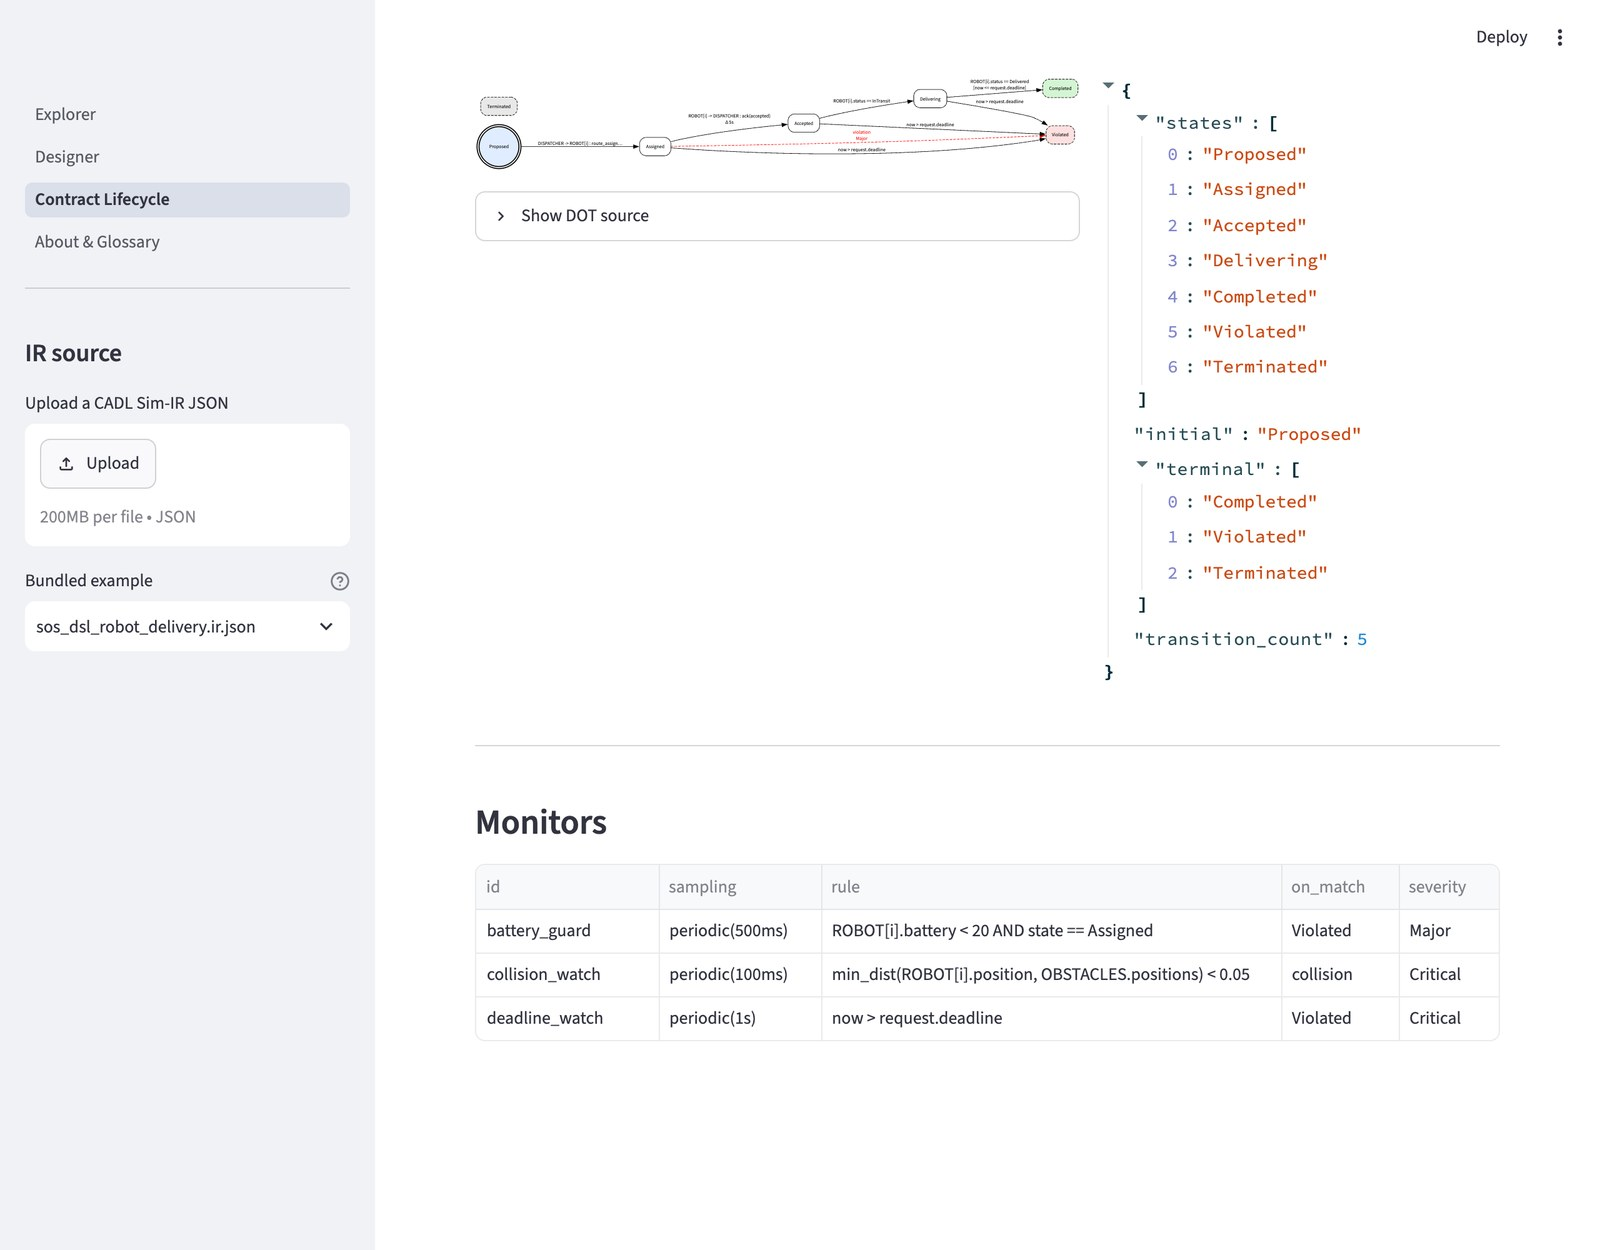
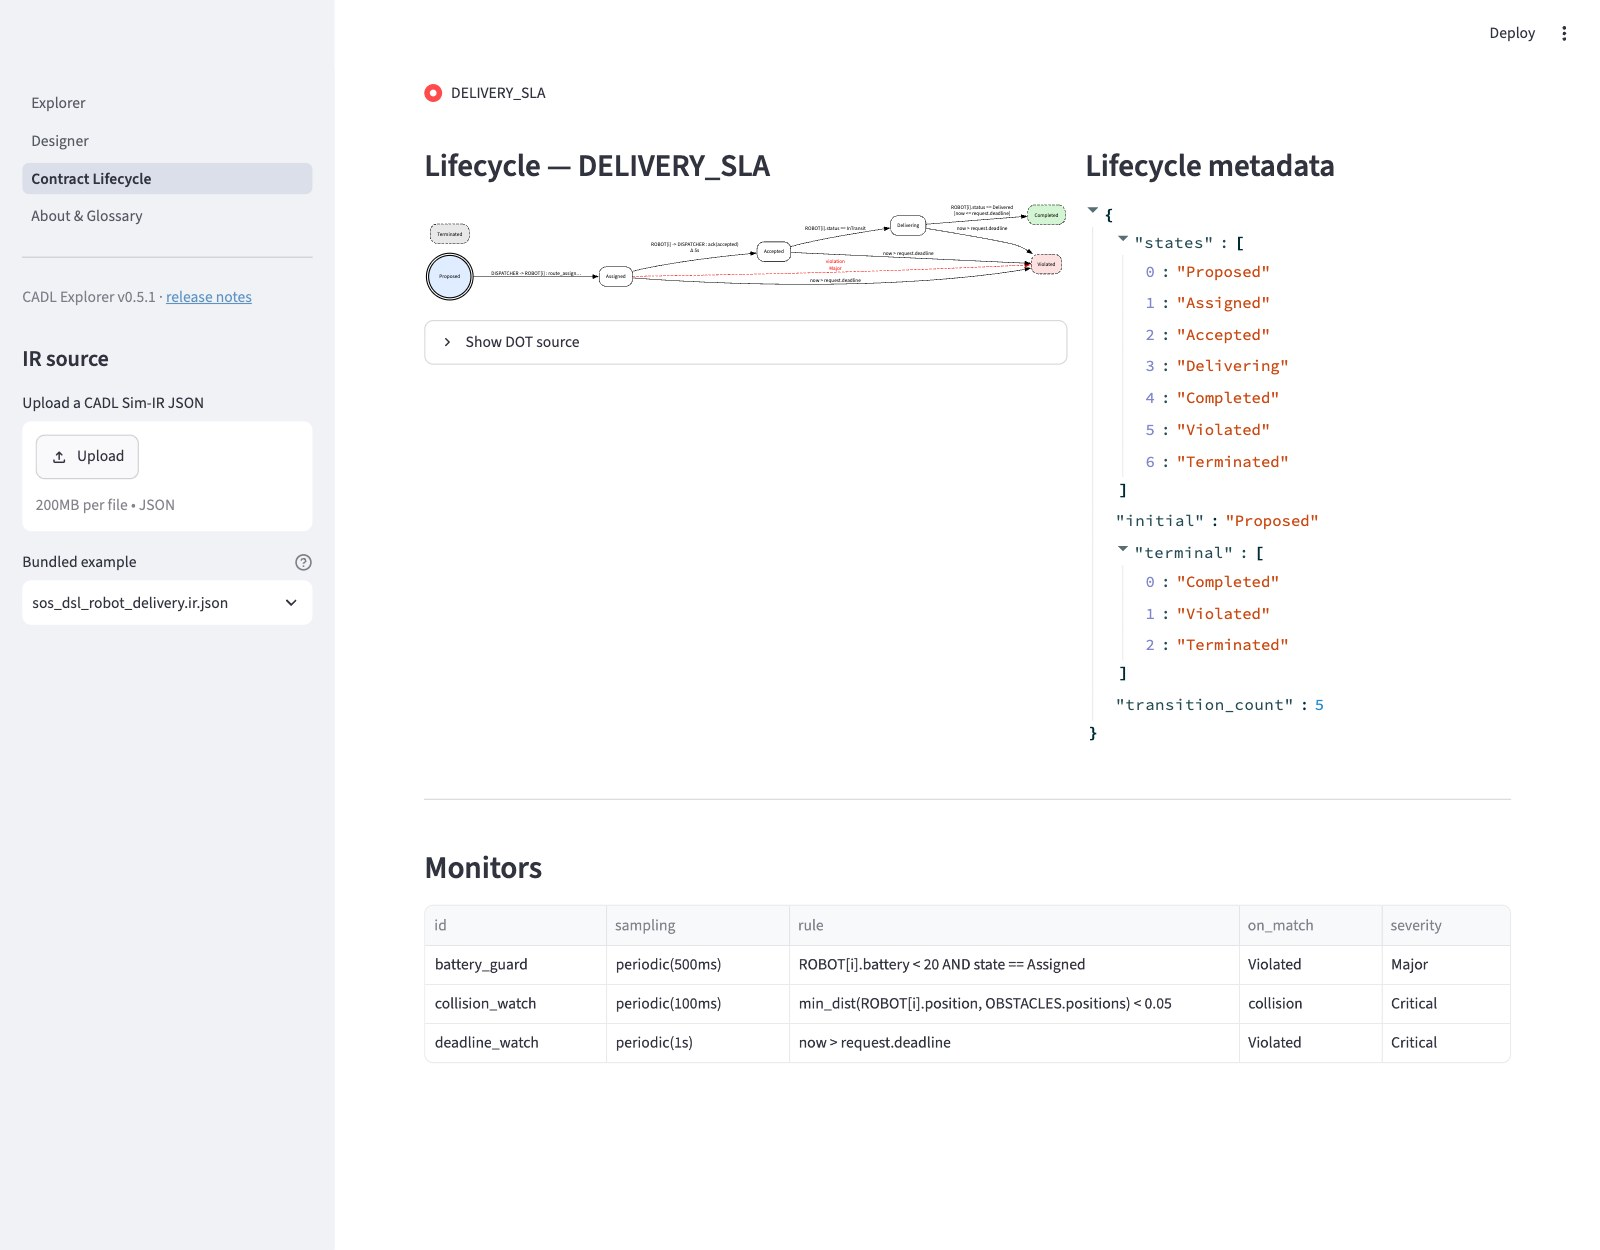
Review round 10: fix the findings; new Explorer screenshots
Specification (EN and JA):
- A.8: `target:` may be FROM->TO (verify_target), as the prose says
- 5.1: the SoS `name:` is a string, not an identifier
- 5.1.1: name exactly which table entries are not in v0.2
- A.12 points to E.4 for what cadl does not check of Appendix E
- chapter 7 note: `invariant:` corresponds to `expr:`

Hands-on and Quick Start (EN and JA):
- the three CADL Explorer screenshots retaken from the current app
  (sidebar shows the version); the Quick Start says where it appears
- code walkthrough: what C-SoS mode is; where the [Config] lines and
  Unity's GraphDefinition line come from
- Why SoS-DSL: `responsibilities:` / `on_violation:` (there is no
  `obligations:` key); where lifecycle and monitors are first used
- Course B section 8: the full output of the grep

README / NOTICE: documentation and code scopes no longer overlap.

Each changed sentence was checked against the code or the tool before
merging.

diff --git a/i18n/ja/docusaurus-plugin-content-docs/current/handson/code-walkthrough.md b/i18n/ja/docusaurus-plugin-content-docs/current/handson/code-walkthrough.md
@@ -50,7 +50,7 @@ flowchart LR
 
 リポジトリはこの 4 つです。シミュレータは、Unity プロジェクト（`unity/`）、Go アービトレータ（`arbitrator/`）、Python ランタイム（`cadl/runtime/`）を 1 つのリポジトリにまとめています。下の第 4 節で説明するファイルは、すべてこのリポジトリにあります。
 
-名前についての補足です。Unity シーン（`C-SoS.unity`）、ロボットの制御コード（`Pilot_CSoS`）、アービトレータのディレクトリ（`C-SoS/`）に付いている「C-SoS」は、シミュレータ側では Collaborative SoS の略で（設定ファイルは `sosType: collaborative`）、中央アービトレータ方式のモード（「D-SoS」モードと対になるもの）の名前です。このラベルはシミュレータ側で決まるもので、CADL ファイルの `type:` とは独立です。このコースの CADL ファイルは `type: Acknowledged` と宣言しており、教材がロボット配送 SoS の類型を述べるときは、この宣言を指しています。
+名前についての補足です。Unity シーン（`C-SoS.unity`）、ロボットの制御コード（`Pilot_CSoS`）、アービトレータのディレクトリ（`C-SoS/`）に付いている「C-SoS」は、シミュレータ側では Collaborative SoS の略で（設定ファイルは `sosType: collaborative`）、このコースで使うモードの名前です。このモードでは、ロボットが配送を申し出て（claim）、`arbitrator/C-SoS` のアービトレータが落札を決めます。リポジトリには参考用に `D-SoS.unity` シーンも入っていますが、そのアービトレータは含まれていません。このラベルはシミュレータ側で決まるもので、CADL ファイルの `type:` とは独立です。このコースの CADL ファイルは `type: Acknowledged` と宣言しており、教材がロボット配送 SoS の類型を述べるときは、この宣言を指しています。
 
 ## 3. 1 つの契約が通る道 — ファイル単位で追う
 
@@ -93,7 +93,7 @@ flowchart LR
 | --- | --- |
 | `LineTrace/Pilot_CSoS.cs` | ロボットの頭脳。経路追従・配送の入札（claim）・落札・完了。**契約のことは何も知らない** |
 | `arbitrator/C-SoS/main/main.go` | Go 製のアービトレータ（配送の割当係）。NATS で配送を配り、早い者勝ち（FCFS）で落札を決める |
-| `Assets/streamingAssets/cadl_config.json` | グラフ（11 ノード・17 エッジ）・ロボット台数・NATS 設定。Console の `[Config]` 行の出どころ |
+| `Assets/streamingAssets/cadl_config.json` | グラフ（11 ノード・17 エッジ）・ロボット台数・NATS 設定。両側が読み込む：アービトレータ起動時の `[Config]` 行（Terminal 2）と、Unity の Console に出る `[GraphDefinition] Loaded from CADL config` の行は、このファイルに由来する |
 
 ### Python 参照ランタイム — `cadl/runtime/`（答え合わせ用）
 

diff --git a/docs/handson/code-walkthrough.md b/docs/handson/code-walkthrough.md
@@ -50,7 +50,7 @@ There are only three things to remember.
 
 These are the four repositories. The simulator keeps the Unity project (`unity/`), the Go arbitrator (`arbitrator/`) and the Python runtime (`cadl/runtime/`) together in one repository; the files described in Section 4 below are all found there.
 
-A note on names: the Unity scene (`C-SoS.unity`), the robot controller (`Pilot_CSoS`) and the arbitrator directory (`C-SoS/`) carry the label "C-SoS". In the simulator, C-SoS stands for Collaborative SoS (its config has `sosType: collaborative`) and names its centralised-arbitrator mode, as opposed to its "D-SoS" mode. That label is set in the simulator, independently of the `type:` in a CADL file. The CADL file of this course declares `type: Acknowledged`, and that declaration is what the course text means when it classifies the robot-delivery SoS.
+A note on names: the Unity scene (`C-SoS.unity`), the robot controller (`Pilot_CSoS`) and the arbitrator directory (`C-SoS/`) carry the label "C-SoS". In the simulator, C-SoS stands for Collaborative SoS (its config has `sosType: collaborative`) and names the mode used in this course, in which the robots claim deliveries and the `arbitrator/C-SoS` arbitrator awards them. The repository also contains a `D-SoS.unity` scene for reference; its arbitrator is not included. That label is set in the simulator, independently of the `type:` in a CADL file. The CADL file of this course declares `type: Acknowledged`, and that declaration is what the course text means when it classifies the robot-delivery SoS.
 
 ## 3. The road one contract travels — file by file
 
@@ -93,7 +93,7 @@ Using the textbook example `sos_dsl_robot_delivery.cadl` (153 lines), let's foll
 | --- | --- |
 | `LineTrace/Pilot_CSoS.cs` | The robot's brain. Path following, bidding on deliveries (claim), winning bids, completion. **Knows nothing about contracts** |
 | `arbitrator/C-SoS/main/main.go` | The arbitrator (task dispatcher) written in Go. Distributes deliveries over NATS and awards them first-come-first-served (FCFS) |
-| `Assets/streamingAssets/cadl_config.json` | The graph (11 nodes / 17 edges), robot count, NATS settings. The source of the `[Config]` lines in the Console |
+| `Assets/streamingAssets/cadl_config.json` | The graph (11 nodes / 17 edges), robot count, NATS settings. Read by both sides: the arbitrator's `[Config]` startup lines (Terminal 2) and Unity's `[GraphDefinition] Loaded from CADL config` line in the Console come from it |
 
 ### Python reference runtime — `cadl/runtime/` (for cross-checking)
 

diff --git a/i18n/ja/docusaurus-plugin-content-docs/current/spec/05-language-spec.md b/i18n/ja/docusaurus-plugin-content-docs/current/spec/05-language-spec.md
@@ -12,7 +12,7 @@ CADL記述は，以下のトップレベル要素で構成される。1つのCAD
 
 ```yaml
 sos:
-  name: <識別子>                # SoS名
+  name: <文字列>                # SoS名
   type: <Directed|Acknowledged|Collaborative|Virtual>  # SoS分類
   version: <セマンティックバージョン>
 
@@ -75,7 +75,7 @@ CADLは，利用者の専門性と記述の目的に応じた3段階の記述レ
 | 設計レベル (Design) | 設計者・研究者・上級学生 | 制度パラメータ(α,β,λ)，プロトコル手順，遷移条件，メトリクス | パラメータ値の明示 / 型注釈の付与 / 制約式の記述 |
 | 検証レベル (Verification) | SoSアーキテクト・検証エンジニア | assume-guarantee契約，安全不変条件，形式的性質（時相論理） | 形式的述語・量化子 / SMT/モデル検査用注釈 / codegen/synthesis指定 |
 
-v0.2には，型注釈や時相論理の性質を書く構文はない。設計レベルの行の「型注釈の付与」と検証レベルの行は，目指す方向を述べたものである。v0.2の検証レベルのファイルに書ける内容は，下の断片に示す。
+v0.2には，型注釈，時相論理の性質，synthesisを書く構文はない。したがって，表のうち次の3つは目指す方向を述べたものである。設計レベルの行の「型注釈の付与」と，検証レベルの行の「形式的性質（時相論理）」，および「codegen/synthesis指定」のうちsynthesisの部分である。検証レベルの行の残りは，v0.2に存在する。assume-guarantee契約，安全不変条件，形式的述語・量化子，SMT・モデル検査を指定する `verification:` 項目の `method:`（[A.8節](./appendix-a-syntax.md#a8-verification-block)），`codegen:` ブロック（[A.9節](./appendix-a-syntax.md#a9-codegen-block)）である。v0.2の検証レベルのファイルに書ける内容は，下の断片に示す。
 
 以下に，家庭内ルールの「家事分担」を題材に，同一の制度が，概要レベル，設計レベル，および設計レベルのファイルに追加する断片としての検証レベルで，どのように記述されるかの例を示す。
 

diff --git a/docs/spec/05-language-spec.md b/docs/spec/05-language-spec.md
@@ -11,7 +11,7 @@ CADL expressions (predicates, steps) are written inside YAML strings.
 
 ```yaml
 sos:
-  name: <identifier>            # SoS name
+  name: <string>                # SoS name
   type: <Directed|Acknowledged|Collaborative|Virtual>  # SoS classification
   version: <semantic_version>
 
@@ -86,9 +86,16 @@ to the verification level by adding blocks.
 | Design | Designers, Researchers<br />Advanced Students | Institutional parameters (α,β,λ),<br />Protocol procedures,<br />Transition conditions, Metrics | Explicit parameter values<br />Type annotations<br />Constraint expressions |
 | Verification | SoS Architects<br />Verification Engineers | assume-guarantee contracts,<br />Safety invariants,<br />Formal properties (temporal logic) | Formal predicates and quantifiers<br />Annotations for SMT/model checking<br />Code generation/synthesis specification |
 
-v0.2 has no syntax for type annotations or temporal-logic properties:
-"Type annotations" in the design-level row and the verification-level
-row describe the intended direction. What a verification-level file can
+v0.2 has no syntax for type annotations, temporal-logic properties, or
+synthesis. Three entries of the table therefore describe the intended
+direction: "Type annotations" in the design-level row and, in the
+verification-level row, "Formal properties (temporal logic)" and the
+synthesis part of "Code generation/synthesis specification". The rest of
+the verification-level row exists in v0.2: assume-guarantee contracts,
+safety invariants, formal predicates and quantifiers, the `method:` of a
+`verification:` entry ([§A.8](./appendix-a-syntax.md#a8-verification-block))
+for SMT and model checking, and the `codegen:` block
+([§A.9](./appendix-a-syntax.md#a9-codegen-block)). What a verification-level file can
 contain in v0.2 is shown in the fragment below.
 
 Below is an example showing how the same institution for household

diff --git a/i18n/ja/docusaurus-plugin-content-docs/current/spec/appendix-a-syntax.md b/i18n/ja/docusaurus-plugin-content-docs/current/spec/appendix-a-syntax.md
@@ -252,11 +252,13 @@ transition_def = "from:" , identifier ,
 ```ebnf
 verify_def    = "id:"   , identifier ,
                 "type:" , text ,
-                [ "target:"   , identifier ] ,
+                [ "target:"   , verify_target ] ,
                 [ "property:" , text ] ,
                 [ "method:"   , verify_method ] ,
                 [ "expr:"     , predicate ] ,              (* string *)
                 [ "bound:"    , int_literal ] ;
+verify_target = identifier
+              | identifier , "->" , identifier ;           (* FROM->TO *)
 verify_method = "smt" | "model_check" | "simulation" | "proof" ;
 ```
 
@@ -414,6 +416,7 @@ AND    OR    NOT    true    false    for all    exists    in
   [付録C](./appendix-c-motivation.md)の規定と相違する。
   [付録E](./appendix-e-sos-dsl.md)の同じ趣旨の規定は，`cadl` が `sos-dsl` を実装しているため
   適用されない。`extensions:` の宣言は，単に検査されないだけである。
+  `cadl` が付録Eそのものに対して満たしていない点は，[E.4節](./appendix-e-sos-dsl.md#e4-static-semantics)に示す。
   `motivation:` ブロックは保持もされない。`cadl sim-ir` は，このブロックを持つファイルに
   対して `motivation: null` を出力する。これは，拡張に対応しない処理系がブロックを原文のまま
   保持することを望ましいとする[付録CのC.6節](./appendix-c-motivation.md)の規定と相違する。`lifecycle:` と `monitors:` は，

diff --git a/docs/handson/academic-background.md b/docs/handson/academic-background.md
@@ -123,7 +123,7 @@ The `lifecycle:` and `monitors:` features live in a CADL extension called **SoS-
 It's an "extension" because they elevate **norms** (rules to obey) to first-class concepts ─
 core CADL alone (actors / contract skeleton) doesn't include them.
 
-When you reach §3 of any course and add `lifecycle:` / `monitors:`,
+When you add `lifecycle:` / `monitors:` in Step 3 of Course A (or read them in §3 of Course B),
 **you are using SoS-DSL for the first time**.
 
 ---
@@ -162,7 +162,7 @@ processes the ISO standards prescribe — the standards themselves stop short of
 ### 5.2 Three research traditions CADL draws from
 
 - **Architecture Description Languages (ADL)** ─ ACME, AADL, Wright … CADL's `actors:` / `protocols:` inherit from this tradition (Medvidovic & Taylor 2000).
-- **Normative Multi-Agent Systems** ─ obligations, permissions, prohibitions as first-class objects (Boella et al. 2006). CADL's `obligations:` clauses fit here.
+- **Normative Multi-Agent Systems** ─ obligations, permissions, prohibitions as first-class objects (Boella et al. 2006). CADL's `responsibilities:` and the `on_violation:` clauses of SoS-DSL fit here.
 - **Runtime Verification** ─ observing a running system against a formal specification (Bartocci et al. 2018). CADL's `monitors:` belong here.
 
 ### 5.3 Difference from blockchain DSLs

diff --git a/docs/spec/appendix-a-syntax.md b/docs/spec/appendix-a-syntax.md
@@ -271,11 +271,13 @@ protocol declared in `protocols:`.
 ```ebnf
 verify_def    = "id:"   , identifier ,
                 "type:" , text ,
-                [ "target:"   , identifier ] ,
+                [ "target:"   , verify_target ] ,
                 [ "property:" , text ] ,
                 [ "method:"   , verify_method ] ,
                 [ "expr:"     , predicate ] ,              (* string *)
                 [ "bound:"    , int_literal ] ;
+verify_target = identifier
+              | identifier , "->" , identifier ;           (* FROM->TO *)
 verify_method = "smt" | "model_check" | "simulation" | "proof" ;
 ```
 
@@ -459,7 +461,8 @@ deviates from this appendix as follows (checked against `cadl` 0.3.8).
   asks a processor that does not implement the extension to emit one.
   The SHOULD of [Appendix E](./appendix-e-sos-dsl.md) does not apply,
   because `cadl` implements `sos-dsl`; an `extensions:` declaration is
-  simply not checked. The `motivation:` block is not preserved either:
+  simply not checked. Where `cadl` falls short of Appendix E itself is
+  stated in [Section E.4](./appendix-e-sos-dsl.md#e4-static-semantics). The `motivation:` block is not preserved either:
   `cadl sim-ir` emits `motivation: null` for a file that has one,
   which deviates from the SHOULD of
   [Appendix C, Section C.6](./appendix-c-motivation.md).

diff --git a/README.md b/README.md
@@ -81,7 +81,7 @@ If you are using GitHub pages for hosting, this command is a convenient way to b
 
 ## License
 
-- **Documentation** (the text under `docs/` and `i18n/`, and the figures under `static/img/`): [Creative Commons Attribution 4.0 International (CC BY 4.0)](LICENSE-docs).
-- **Code** (the CADL and other code examples embedded in the documentation, the site source under `src/` and `i18n/ja/docusaurus-plugin-content-pages/`, and the configuration files): [Apache License 2.0](LICENSE).
+- **Documentation**: [Creative Commons Attribution 4.0 International (CC BY 4.0)](LICENSE-docs). This covers the text under `docs/` and `i18n/ja/docusaurus-plugin-content-docs/` (except the code examples embedded in it), and the figures under `static/img/handson/` and `static/img/mobility_sos_lifecycle.png`.
+- **Code**: [Apache License 2.0](LICENSE). This covers everything else: the CADL and other code examples embedded in the documentation, the site source (`src/`, the rest of `i18n/`, the remaining files under `static/`) and the configuration files.
 
 Copyright © 2026 ERTL, Graduate School of Informatics, Nagoya University.

diff --git a/i18n/ja/docusaurus-plugin-content-docs/current/handson/mobility-sos-tutorial.md b/i18n/ja/docusaurus-plugin-content-docs/current/handson/mobility-sos-tutorial.md
@@ -348,9 +348,12 @@ python scripts/analyze_results.py | grep -E "OK|VIOLATED"
 期待される結果（SUMO 1.28.0 では違反 12 件。違反件数と該当タクシーの並びは、乱数シードや SUMO のバージョンによって変わります。着目すべきは `waiting_time` が `OK` で `ride_time` が `VIOLATED` になる、という**内訳の形**です）：
 
 ```text
-[OK          ] waiting_time <= 300s  (tripinfo.waitingTime)
-[VIOLATED (12)] ride_time <= 100s  (tripinfo.duration  e.g. ['taxi_8', 'taxi_9', ...])
+      [OK          ] waiting_time <= 300s  (tripinfo.waitingTime)
+      [VIOLATED (12)] ride_time <= 100s  (tripinfo.duration  e.g. ['taxi_8', 'taxi_9', 'taxi_10', 'taxi_11', 'taxi_14'])
+OK: 分析完了。
 ```
+
+最後の行はスクリプトの終了メッセージです。`OK` で始まるので `grep` のパターンに一致します。
 
 :::tip[🔍 可視化チェックポイント 4 — 改訂後（このコースの山場）]
 `analyze_results.py` を実行する前に、cadl-explorer をリロードしてみてください。

diff --git a/docs/spec/07-examples.md b/docs/spec/07-examples.md
@@ -29,9 +29,9 @@ not part of [Appendix A](./appendix-a-syntax.md):
   ([§A.8](./appendix-a-syntax.md#a8-verification-block)):
   - the keys `check:`, `severity:`, `message:`, `contracts:`,
     `transitions:`, `invariant:`, `tool:`, and `parameters:`. Only
-    three of them have a counterpart in A.8: `target:` stands for
-    `contracts:` and `transitions:`, and `expr:` for `check:`; the
-    listings use neither. `severity:`, `message:`, `invariant:`,
+    four of them have a counterpart in A.8: `target:` stands for
+    `contracts:` and `transitions:`, and `expr:` for `check:` and
+    `invariant:`; the listings use neither. `severity:`, `message:`,
     `tool:`, and `parameters:` have no counterpart;
   - the `method:` values `model_checking` and `bounded_model_checking`
     (A.8 has `model_check`), `Monte_Carlo(...)` (A.8 has `simulation`),
